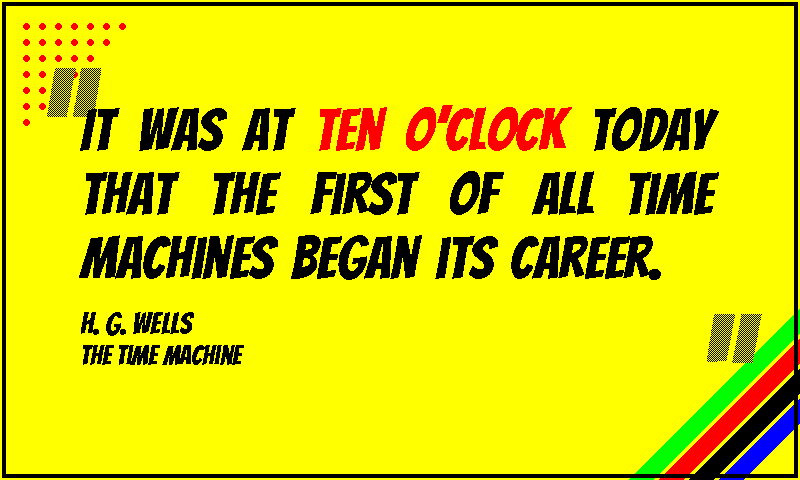
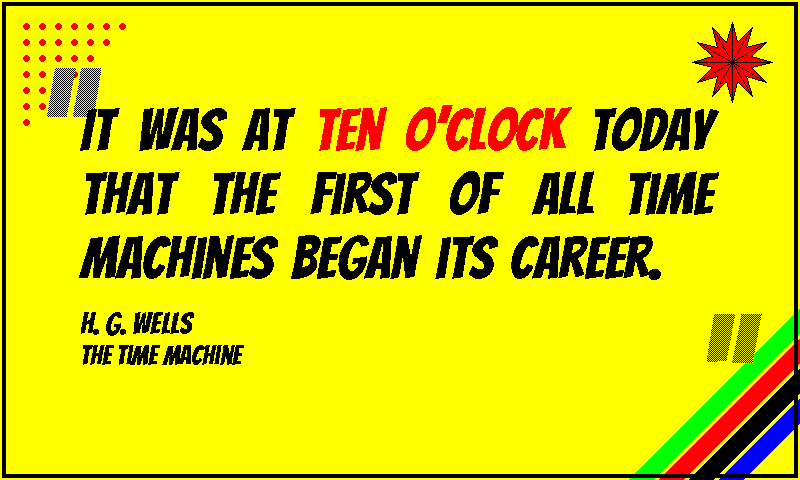
Uplevel comic and chanbara theme visuals
Continue the measured theme-upleveling effort with two themes that had a
genuinely empty corner / margin (verified by sampling margin-band busyness).

comic: add a red action-starburst to draw_comic_corner_stripes in the
previously-empty top-right corner — a 24-point jagged explosion-burst
polygon (red fill, black ink spikes), the canonical "POW!" comic burst.
Centred at (width-68, 62) so it sits in the corner gutter above the body
block (clear of the first text line) and diagonally counterweights the TL
Ben-Day dot field and BR racing stripes, completing the three-corner
comic-page composition. Verified it clears every cross-theme gating sample.

chanbara: add a vertical brush-tick signature column to
draw_chanbara_border in the empty left margin — five short uneven sumi
strokes + a few ink-spatter flecks, painted red then maroon-post-passed to
share the chop seal's aged-ink register (the hanging signature/date column
a samurai-cinema poster runs beside the artist's seal). Pinned to the tall
clear band below the oversized opening quote-mark and above the rising-sun
arc.

Add three border-detail unit tests (including a comic gating-clearance
test), regenerate the affected chanbara golden fixture, and refresh both
README preview thumbnails (10:00 production; default.png reproduces
byte-for-byte). Update CLAUDE.md theme docs. Full suite green before commit
(391 passed, 3 skipped); ruff clean.

Changed region(s): [[0.875, 0.0625, 0.9688, 0.2188]]

diff --git a/idle_hours/render_quote.py b/idle_hours/render_quote.py
@@ -5148,6 +5148,32 @@ def draw_chanbara_border(image: Image.Image, colors: dict) -> None:
         width=2,
     )
 
+    # Vertical brush-tick column in the empty left margin — the hanging
+    # signature / date column a kabuki or samurai-cinema poster runs down
+    # the side of the artist's seal. Five short horizontal sumi strokes of
+    # varied length (a real hand-inked run of marks is uneven), painted in
+    # red as a sentinel and maroon-post-passed to share the chop's aged-ink
+    # tonal register. Pinned to x≈14-40, y≈196-280 — the tall clear band on
+    # the far left below the oversized opening quote-mark (which occupies
+    # y≈20-140) and above the bottom rising-sun arc (which only reaches the
+    # bottom-right quadrant). Well left of the body block, which on the
+    # widest dense layout starts at x≥60.
+    tick_cx = chop_left + chop_w // 2
+    tick_specs = ((196, 11), (212, 9), (228, 12), (244, 8), (260, 10))
+    for ty, half in tick_specs:
+        draw.line([(tick_cx - half, ty), (tick_cx + half, ty)], fill=sentinel_red, width=2)
+    # A couple of small ink-spatter flecks trailing off the lowest ticks,
+    # for the hand-inked sumi-e feel — single filled dots, same sentinel.
+    for fx, fy in ((tick_cx + 15, 266), (tick_cx - 13, 272), (tick_cx + 6, 278)):
+        draw.ellipse((fx - 1, fy - 1, fx + 1, fy + 1), fill=sentinel_red)
+    # Maroon post-pass over the brush-tick column bbox (x±18, y 188-282).
+    col_x0 = max(0, tick_cx - 18)
+    col_x1 = min(width - 1, tick_cx + 18)
+    for py in range(188, 283):
+        for px in range(col_x0, col_x1 + 1):
+            if (px + py) & 1 == 0 and pixels[px, py] == sentinel_red:
+                pixels[px, py] = maroon_dark
+
 
 def _lcars_paint_lavender_block(pixels, left: int, top: int, right: int, bot: int,
                                 sentinel) -> None:
@@ -6948,6 +6974,34 @@ def draw_comic_corner_stripes(image: Image.Image, colors: dict) -> None:
         outline=colors.get("text", SPECTRA6["black"]),
         width=4,
     )
+
+    # Action starburst in the empty top-right corner — the jagged
+    # explosion-burst silhouette every comic page stamps a "POW!" / "ZAP!"
+    # into. Diagonally counterweights the top-left Ben-Day dot field and
+    # the bottom-right racing stripes, completing the three-corner comic-
+    # page composition (the TR was the one empty corner). A 16-point star
+    # polygon (alternating outer / inner radii) filled red with a heavy
+    # black outline — the classic two-colour comic register (red fill,
+    # black ink), pulling only from the comic palette (accent / text).
+    # Centred at (width-70, 70): the burst's leftmost spike reaches
+    # x≈width-115 and its lowest y≈115, so it clears the body block (the
+    # quote never starts before y=72 and the widest dense layout ends at
+    # x≤740) and sits cleanly inside the heavy panel border.
+    burst_color = colors.get("accent", SPECTRA6["red"])
+    burst_ink = colors.get("text", SPECTRA6["black"])
+    burst_cx, burst_cy = width - 68, 62
+    outer_r, inner_r = 40, 20
+    points = 12
+    burst_pts = []
+    for i in range(points * 2):
+        ang = -math.pi / 2 + i * math.pi / points
+        rr = outer_r if i % 2 == 0 else inner_r
+        burst_pts.append((burst_cx + rr * math.cos(ang), burst_cy + rr * math.sin(ang)))
+    border_draw.polygon(burst_pts, fill=burst_color, outline=burst_ink)
+    # Re-stroke the spikes heavier so the outline reads at panel distance.
+    for i in range(0, points * 2, 2):
+        sx, sy = burst_pts[i]
+        border_draw.line((burst_cx, burst_cy, sx, sy), fill=burst_ink, width=1)
 
 
 # Deterministic stone-grain speckle layout for ``draw_roman_border``. Same

diff --git a/tests/test_render_quote.py b/tests/test_render_quote.py
@@ -3742,3 +3742,41 @@ def test_saloon_border_paints_side_drop_pendants():
     right = sum(1 for x in range(779, 796) for y in range(248, 290) if px[x, y] == red)
     assert left > 40, "left drop-pendant chain missing"
     assert right > 40, "right drop-pendant chain missing"
+
+
+def test_comic_border_paints_action_starburst():
+    """The upleveled comic border adds a red action-starburst in the empty
+    top-right corner (red fill + black ink spikes), completing the
+    three-corner composition."""
+    img = Image.new("RGB", (800, 480), rq.SPECTRA6["yellow"])
+    rq.draw_comic_corner_stripes(img, rq.THEMES["comic"])
+    px = img.load()
+    red = rq.SPECTRA6["red"]
+    black = rq.SPECTRA6["black"]
+    burst_red = sum(1 for x in range(700, 775) for y in range(28, 98) if px[x, y] == red)
+    burst_black = sum(1 for x in range(700, 775) for y in range(28, 98) if px[x, y] == black)
+    assert burst_red > 500, "action starburst red fill missing"
+    assert burst_black > 100, "action starburst black ink spikes missing"
+
+
+def test_comic_starburst_clears_cross_theme_gating_samples():
+    """The new top-right starburst must not intrude on the corner-gutter
+    sample points the cross-theme gating tests rely on."""
+    img = Image.new("RGB", (800, 480), rq.SPECTRA6["yellow"])
+    rq.draw_comic_corner_stripes(img, rq.THEMES["comic"])
+    px = img.load()
+    yellow = rq.SPECTRA6["yellow"]
+    for pt in ((15, 15), (12, 12), (400, 11), (20, 20)):
+        assert px[pt] == yellow, f"comic starburst intrudes on gating sample {pt}"
+
+
+def test_chanbara_border_paints_brush_tick_column():
+    """The upleveled chanbara border adds a vertical brush-tick signature
+    column in the empty left margin (maroon = red+black, so red survives on
+    the odd-parity half of the post-pass)."""
+    img = Image.new("RGB", (800, 480), (0, 0, 0))
+    rq.draw_chanbara_border(img, rq.THEMES["chanbara"])
+    px = img.load()
+    red = rq.SPECTRA6["red"]
+    col_red = sum(1 for x in range(20, 57) for y in range(188, 283) if px[x, y] == red)
+    assert col_red > 40, "brush-tick signature column missing"

diff --git a/CLAUDE.md b/CLAUDE.md
@@ -531,7 +531,7 @@ Imports `pick_quote` in-process (`pick_quote_module.select_quote`) and lays out 
   - `gothic` (black-ground/white-body/red-accent, the same UnifrakturMaguntia blackletter promoted from ornament-only to *both* the matched-phrase bold and the oversized quote marks — short matched phrases like "half past two" render in dramatic red blackletter, sitting in the body like a chapter heading. The matched-phrase red is stippled with the same sparse 1-in-4 white-on-red dither (`light_density=0.25`) that `grimoire` uses on *its* blackletter matched phrase via `_draw_text_body`, so both sister blackletter themes share a candlelit-rubric signature against their respective grounds — the recipe is the documented "candlelit red" two-ink mix. Pairs with a `draw_gothic_border` decorative frame: double rule (red outer + white inner — distinct from `illuminated`'s single-ink doubled rule) with red-and-white quatrefoils — four small red lobes around a tiny white centre dot — at the four outer corners (the iconic four-lobed Gothic-tracery motif found in cathedral rose windows and printed-book ornaments), plus small cream (Y+W) diamond ornaments centred on each mid-edge as chapter-divider accents, and red **trefoil finials** (a three-lobed Gothic-tracery clover, each lobe a red disc with a white centre dot) centred in the top and bottom margins — painted in solid rubric red rather than the corners' maroon recipe so they read on the open black field, tying the head/foot of the page back to the corner quatrefoils. Both finials are centred horizontally so the top one clears the right-aligned `DEBUG MODE` banner and the foot one clears the bottom-left attribution. Visually the opposite polarity of `illuminated` so the two blackletter themes complement rather than duplicate).
   - `bauhaus` (white/black/blue-accent + red-ornaments, Jost geometric sans — three primaries simultaneously, plus a `draw_bauhaus_border` decorative frame: thin black outer rectangle with red-circle (TL) / blue-square (TR) / yellow-triangle (BL) / red-circle (BR) corner accents — the BL triangle paints in yellow rather than the second blue it was pre-Stage-3 so all three Bauhaus primaries (red + blue + yellow) appear simultaneously on the page alongside the black outer frame. The frame is layered up into a fuller poster composition: concentric outline rings (in the frame colour) sweep around the two corner discs as the quarter-arc "target" geometry of a Kandinsky concentric-circle study; two off-centre primary semicircles bulge inward from the top (blue) and bottom (yellow) frames as the playful edge punctuation of a Bauhaus poster — deliberately set at x=0.68w / 0.32w (never the frame midpoints) so the composition stays asymmetric and the sampled top/bottom frame-midpoint pixels keep their frame colour; and two floating primary elements (a small red square on the left margin, a small blue disc on the right) drift in the otherwise-empty side margins at y=0.34h / 0.66h, echoing the corner shapes' forms while staying off the side-frame midpoints. The matched-phrase blue accent is rerouted in `_draw_text_body` to a 50/50 B+K navy stipple, giving the matched phrase tighter contrast against the new yellow triangle than the body-vs-accent palette would otherwise produce. The themes with borders — atomic / bauhaus / blueprint / comic / dispatch / gothic / illuminated / newsprint / nightvision — are dispatched via `_paint_theme_border` / `_BORDER_PAINTERS` at the top of both `render` and `render_source_card`; four of them paint in the top-right corner (bauhaus / blueprint / gothic / illuminated), so the debug-mode "DEBUG MODE" banner shifts inward for those via the `_DEBUG_LABEL_RIGHT_INSET` dict — extend that dict when adding another theme-specific TR graphic. Dispatch's TR rubber-stamp graphic sits below the label band, and atomic's atom symbol is centred horizontally, so both deliberately stay absent from that dict).
   - `risograph` (white/red/blue, Rubik rounded sans — ZERO black ink, two-colour riso print. The matched-phrase blue accent is rerouted in `_draw_text_body` to a 50/50 R+B violet stipple — the authentic riso double-pass overprint where the red and blue plates physically wash into purple; preserves the no-black-ink invariant by construction. The `draw_risograph_border` decoration's shifted-accent registration crosses at the four corners paint in an off-palette sentinel and then bbox-post-pass through a 3-way 4×4 Bayer partition into LAVENDER (R+B+W ~1/3 each) — the paler "overprint" register-mark tone real risograph print test sheets develop where two plates wash together. Plus a **colour-registration bar** centred in the top margin — five solid swatches (red / blue / lavender-overprint / red / blue) of the kind a print shop runs at the sheet edge to check ink density and plate alignment, the lavender swatch using the same R+B+W 3-way recipe as the corner crosses; every swatch is red / blue / white only, preserving the no-black-ink invariant by construction).
-  - `comic` (yellow-ground/black-body/red-accent, Bangers comic-book display, plus a `draw_comic_corner_stripes` decoration that lays a full comic-page composition over the empty yellow ground: (1) a **Ben-Day halftone dot field** — an evenly-gridded triangle of small red dots filling the top-left corner (the iconic Lichtenstein / four-colour-print texture), inset ≥26 px from both edges so the panel-gutter corner — and the `(15, 15)` / `(12, 12)` / `(20, 20)` / `(36, 56)` pixels the cross-theme gating tests sample — stays clean yellow page_bg, diagonally counterweighting the bottom-right stripes; (2) the original **45° racing stripes** cycling through blue / green / red / black, masked to a right-triangle pinned to the bottom-right corner of the canvas — hypotenuse spans the lower-right quadrant from `(width/2, height)` up to `(width, height/2)`, so bands fan out from the corner without obscuring the quote body; and (3) a **heavy black panel border** at inset 2 / width 4 hugging the canvas edge — the bold gutter line every comic panel is framed by — painted last so it sits over both the dots and the stripes, with the stroke kept at x/y 2–5 so it clears all the frame-edge gating sample points (the lowest is the blueprint-crosshair probe at `(6, 16)`). The stripe palette is hardcoded at module scope (`_COMIC_STRIPE_PALETTE`) since the cool blue/green half of the chevron isn't reachable from the comic theme dict's two non-bg accents — an exception to the "borders pull from `colors`" pattern that would otherwise force a THEMES-schema extension and re-pin every cross-theme invariant test; the Ben-Day dots and panel border DO pull from `colors` (accent / text), defaulting to the comic red/black via `.get()` so the direct `draw_comic_corner_stripes(img, {"page_bg": ...})` unit-test calls — which pass only the page_bg — still render the full panel).
+  - `comic` (yellow-ground/black-body/red-accent, Bangers comic-book display, plus a `draw_comic_corner_stripes` decoration that lays a full comic-page composition over the empty yellow ground: (1) a **Ben-Day halftone dot field** — an evenly-gridded triangle of small red dots filling the top-left corner (the iconic Lichtenstein / four-colour-print texture), inset ≥26 px from both edges so the panel-gutter corner — and the `(15, 15)` / `(12, 12)` / `(20, 20)` / `(36, 56)` pixels the cross-theme gating tests sample — stays clean yellow page_bg, diagonally counterweighting the bottom-right stripes; (2) the original **45° racing stripes** cycling through blue / green / red / black, masked to a right-triangle pinned to the bottom-right corner of the canvas — hypotenuse spans the lower-right quadrant from `(width/2, height)` up to `(width, height/2)`, so bands fan out from the corner without obscuring the quote body; and (3) a **heavy black panel border** at inset 2 / width 4 hugging the canvas edge — the bold gutter line every comic panel is framed by — painted last so it sits over both the dots and the stripes, with the stroke kept at x/y 2–5 so it clears all the frame-edge gating sample points (the lowest is the blueprint-crosshair probe at `(6, 16)`); and (4) a **red action-starburst** (a 24-point jagged explosion-burst polygon filled red with black ink spikes, the canonical "POW!" comic burst) in the previously-empty top-right corner, centred at `(width-68, 62)` so it sits in the corner gutter above the body block (clear of the first text line at y≈110) and diagonally counterweights the TL dot field and BR stripes — completing the three-corner comic-page composition. The stripe palette is hardcoded at module scope (`_COMIC_STRIPE_PALETTE`) since the cool blue/green half of the chevron isn't reachable from the comic theme dict's two non-bg accents — an exception to the "borders pull from `colors`" pattern that would otherwise force a THEMES-schema extension and re-pin every cross-theme invariant test; the Ben-Day dots and panel border DO pull from `colors` (accent / text), defaulting to the comic red/black via `.get()` so the direct `draw_comic_corner_stripes(img, {"page_bg": ...})` unit-test calls — which pass only the page_bg — still render the full panel).
   - `dispatch` (white/black/red, Special Elite slab-mono typewriter face — vintage office / field-report / dossier register, plus a `draw_dispatch_border` decoration: a sparse 1-in-8 yellow-on-white Bayer cream wash painted as Layer 0 across the page ground (per `BAYER_4x4[y%4][x%4] < 2` — same Bayer threshold `newsprint`'s halftone uses but flipped for `page_bg→yellow` so the page reads as a faint cream/vellum tone, the documented Y+W cream recipe), thin black outer frame, two columns of small tractor-feed perforation circles down the side margins (echoing continuous-feed dot-matrix sprocket holes — every other pair flips from solid black to a sepia stipple via the documented R+G sentinel-paint-then-bbox-post-pass pattern, reading as the rust-brown "carbon-paper bleed" real continuous-feed forms accumulate where the carbon backing oxidises through the sprocket holes), and a maroon rubber-stamp imprint in the upper right inside the frame — two concentric ellipse outlines plus four short diagonal hatch lines, painted in red as a sentinel and then bbox-post-passed to flip half to black per `(x+y)&1` parity (the documented R+K maroon recipe), so the stamp reads as the aged-ink oxblood of a real archival stamp rather than fire-engine red. Plus two **binder filing-punch holes** (thin black ring outlines centred in the top margin at y≈40) and a typed **"— FILE COPY —" footer** (the theme's own Special Elite typewriter face, centred in the bottom margin) — the carbon-duplicate furniture of a real dossier page, both in black ink so the dossier identity stays monochrome-plus-stamp. Same palette as `default` but the slab-mono typewriter face plus the dossier graphics give it a completely different silhouette. The stamp sits at y≈40–70, the punch-holes and footer are centred horizontally (clear of the side perforation columns and the bottom-left attribution), all well below / centred relative to the `DEBUG MODE` banner band, so dispatch is intentionally absent from `_DEBUG_LABEL_RIGHT_INSET`).
   - `atomic` (green-ground/black-body/red-accent — the only theme to claim Spectra 6's flat green as a *page background* — paired with the chunky 1950s Atomic Age display face. Plus a `draw_atomic_border` decoration: a rounded-corner red outer frame (Googie streamlined-modern curves), a centred atom symbol at the top of the page (three rotated red ellipse "orbits" at 0° / 60° / 120° plus a small filled red nucleus — PIL's `ellipse` doesn't accept rotation, so each orbit is drawn as a 64-point polygon-line approximation rotated through the standard 2×2 cosine/sine matrix), and twin tangerine starbursts at the mid-edges (eight rays radiating from a small filled dot — the iconic atomic-energy spark of mid-century diner / motel signage. Each ray is painted in red as a sentinel ink, then a per-starburst bbox post-pass Bayer-flips ~3/8 of the red pixels to yellow at threshold 6/16 — the documented R+Y 5/8:3/8 tangerine recipe `deco` already uses for its matched phrase — so the rays read as the warm atomic-spark glow of period-correct mid-century advertising rather than the harsh fire-engine red the atom orbits use. The atom symbol itself stays solid red so rays-vs-orbits reads as a visual contrast — solid orbits, warm-stippled rays). Plus an atomic **boomerang** centred in the bottom margin — the iconic Googie / Formica kidney-boomerang the era stamped on diner tables and motel signs, a chevron-shaped filled polygon with a small orbiting-electron dot off one tip, painted in red then bbox-post-passed through the same R+Y 5/8:3/8 tangerine recipe as the starburst rays (so it reads as warm atomic-spark orange, not the orbits' fire-engine red). Reads as a vintage atomic-age advertisement at a glance. The atom is centred horizontally so it doesn't conflict with the right-aligned `DEBUG MODE` banner, and the boomerang sits at the bottom centre clear of the bottom-left attribution; atomic is intentionally absent from `_DEBUG_LABEL_RIGHT_INSET`).
   - `marker` (white/black/blue-accent, Permanent Marker hand-drawn — "use the full capabilities of the display" brief: a `draw_marker_border` fridge-doodle frame that lights up every non-white spot colour the Spectra 6 panel can render. Thick 3 px marker-dash perimeter cycling through the five-colour palette so each edge picks up roughly one full rotation of the cycle; corner asterisks coloured red TL / blue TR / green BL / yellow BR for a "marker pot" register rather than a single-Sharpie doodle; left mid-edge mint highlighter dot (G+W 1:1 bbox post-pass via the documented two-ink recipe `nightvision`'s body uses) and right mid-edge violet overlap dot (R+B 1:1, the `illuminated` matched-phrase recipe) balancing the otherwise-stranded yellow + green pixels from the perimeter cycle; plus two doodle **"twinkle" sparkles** (a tapered four-point star with a tiny companion mark, the little stars a kid scatters around a fridge drawing) in the top-centre (red) and bottom-centre (blue) margins, pulling two more palette inks into the otherwise-empty head/foot space. The TR corner asterisk overlaps the y=14-29 banner band, so `marker` carries an entry in `_DEBUG_LABEL_RIGHT_INSET`; the top twinkle sits at x=width//2-70, left of the banner, so it needs no further inset adjustment).
@@ -543,7 +543,7 @@ Imports `pick_quote` in-process (`pick_quote_module.select_quote`) and lays out 
   - `glacier` (white/blue/green, Iceland geometric techno display face — Cyreal, OFL, the first theme to pair a blue body with a green accent. The matched-phrase green accent is rerouted in `_draw_text_body` to a 5/8:3/8 G+B teal stipple — green-biased via Bayer threshold 6/16, the same luminance-bias pattern `nightvision`'s lime and `deco`'s tangerine use to lift a matched phrase off a same-axis body colour. An earlier revision shipped this seam at 50/50 G+B cyan; against the solid-blue body the cyan averaged too close to blue at panel viewing distance and read as a near-sibling tone, so the recipe was biased toward green to widen the hue stride. Solid Spectra-6 green was tried and rejected before cyan because it read as a muddy mid-tone; the 3/8 blue stipple keeps the recipe out of that failure mode while still pulling cleanly off the body blue. Cool-palette gradient now reads as blue body → teal matched phrase → sky-blue ornament highlights on the frost-crystal border. Plus a `draw_glacier_border` decorative frame: thin blue outer rule at inset 14; a **frost-edge wash** — a sparse sky-blue frost gathering in the ≤44 px clear margins above and below the type area, painted as a gradient Bayer threshold (peak ~5/16 at the frame edge fading linearly to bare at the inner lip) that only flips *white* ground pixels to blue, so the ground reads as ice creeping across a windowpane rather than a flat sheet while the blue body text (which never starts before y=72) stays fully legible (skipped on non-white grounds so the unit-test sentinel render is unaffected); four richer corner frost-crystal sprays — each fans a blue horizontal + vertical splinter, two intermediate blue splinters filling the 45° fan, and the longest green-tipped diagonal splinter with two tiny dendrite barbs feathering off it the way real hoar-frost grows side-arms, anchored by a small blue hub dot — the diagonal splinter's (and its barbs') green pixels are post-pass-flipped to white on a 50/50 `(x+y)&1` checkerboard inside each cluster's bbox (the documented sky-blue two-ink recipe), so the eye averages green+white at panel distance into a sunlight-on-ice highlight against the deep-ice body-blue shards; and four mid-edge **six-armed snowflake ticks** — three crossing spokes at 0°/60°/120° with a small forked barb at each of the six tips plus a filled blue hub diamond — reinforcing the architectural symmetry without crowding the quote. The TR cluster overlaps the default debug-banner band, so `glacier` carries an entry of 34 in `_DEBUG_LABEL_RIGHT_INSET` mirroring `blueprint`'s rationale).
   - `chalkboard` (black-ground/white-body/yellow-accent, Playwrite GB J Guides — TypeTogether, OFL — the UK primary-school joined cursive handwriting model *with* the dotted-outline guide letters schoolchildren trace over. Single-weight (Regular only); the dotted/hollow letterforms themselves are the point, so the matched-phrase role reuses Regular and gains differentiation from the yellow chalk-stick accent. Falls back through DejaVu Sans Italic / Liberation Sans Italic before degrading to the Playfair chain so a missing install lands on at least a slanted silhouette rather than dropping a cursive theme onto an upright serif. Plus a `draw_chalkboard_border` decoration: doubled white wooden frame (outer 3 px rule at inset 8 + inner 1 px rule at inset 18, with the ~7 px gap between them left unfilled so the black ground reads through as dark wood grain), a deterministic chalk-dust stipple of single-pixel white dots tucked into the bottom-left corner — pinned to the BL because that's where the chalk tray actually sits on a classroom board — a small green-chalk teacher's `✓` check-mark at the upper-right inner margin (drawn in solid Spectra 6 green at y≈50 as two short line segments forming the canonical "marked correct" annotation; sits below the y=14-29 `DEBUG MODE` banner band by construction), and five small coral eraser-smudge dots spaced along the bottom inner edge (each painted as a 3 px filled red circle then post-passed with white at 50/50 `(x+y)&1` parity inside its bbox so the eye averages red+white at panel distance into coral pink — the documented R+W 1:1 two-ink recipe — reading as the faint pink eraser-stub residue that builds up at the bottom of a real classroom chalkboard), a top-left **handwriting practice-guide rule** (solid top line + dashed midline + solid baseline in white chalk — the ruling schoolchildren write between, the defining gesture of the Playwrite GB J Guides face this theme uses), and a yellow-chalk **gold-star "well done" sticker** beside the green teacher's check so the graded gesture reads as tick-plus-star. The TR check-mark + star stay inside x ≤ width-22 and y ≥ 38, and the practice-guide rule is left-anchored in the top margin, so `chalkboard` is intentionally absent from `_DEBUG_LABEL_RIGHT_INSET` — same exemption as `dispatch` / `atomic`).
   - `placard` (white/black/red, Patrick Hand SC — Patrick Wagesreiter, OFL — friendly hand-printed face whose small caps for lowercase do almost all the visual work, giving the text the silhouette of hand-lettered shop signage / sandwich-board menus. Single-weight (Regular only); the matched-phrase role reuses Regular and gains differentiation from the red accent alone, same trick comic / dispatch / atomic / marker / saloon / deco / glacier / chalkboard already use. Falls back through DejaVu / Liberation / Noto Sans Bold before degrading to the Playfair chain so a missing install lands on a chunky display silhouette. Plus a `draw_placard_border` decoration: doubled sign-painter's frame at insets 14 and 18 — the outer rule painted as a 1 px red stroke and then perimeter-post-passed to flip half of its pixels to green on the 50/50 `(x+y)&1` checkerboard so the eye averages red+green at panel distance into rust-brown sepia (the documented R+G 1:1 two-ink recipe, same recipe `saloon`'s foxing uses), reading as the weathered sandwich-board wood of a sun-faded A-frame menu rather than the harsh printer-ink black of a freshly typeset poster; the inner rule stays solid black so the colour shift between the two parallel rules reads as "core inked, weathered at edges." Four red filled "thumbtack" circles (radius 4) at the inner corners suggest pins holding the sign up — each tack's red pixels are post-pass-flipped to white on a 50/50 `(x+y)&1` checkerboard inside its own bbox (the documented coral-pink two-ink recipe), so the eye averages red+white at panel distance into weathered hand-painted sign-painter red rather than fire-engine vermilion (the exposed corners of a sandwich-board sign would be the first thing to fade in the rain). The four tacks sit at y ≈ 38 / y ≈ height-38, well below the default debug-banner band (y=14-29), so `placard` is intentionally absent from `_DEBUG_LABEL_RIGHT_INSET` — same exemption as `dispatch`. Plus **sign-painter header + footer dividers**: a short centred black rule carrying a small coral diamond (the same R+W weathered-coral recipe the tacks use), the hand-lettered ornament that tops and tails an A-frame menu board — header at y≈34 (clear of the text block at y≥72), footer centred (clear of the bottom-left attribution column)).
-  - `chanbara` (black-ground/white-body/red-accent, Shojumaru — Astigmatic / Brian J. Bonislawsky, OFL — a dramatic brush-painted display face by the same designer as Righteous and Atomic Age, evoking samurai cinema posters and Japanese woodblock prints. Single-weight (Regular only); the matched-phrase role reuses Regular and gains differentiation from the red sun-disc accent alone, same bichrome trick the other display-face themes use. Falls back through heavy DejaVu / Liberation / Noto Sans Bold before degrading to the Playfair chain so a missing install lands on a heavy display silhouette. Plus a `draw_chanbara_border` decoration: a large red filled "rising-sun" disc anchored off-canvas in the bottom-right corner (centre at width+30 / height+30, radius 220 — only the upper-left arc visible, sweeping dramatically through the lower-right quadrant of the page; the white quote text rendered on top reads cleanly thanks to the high white-on-red contrast and the palette-snap pass), balanced diagonally by a small red artist's-chop seal in the top-left corner (a 28×36 px filled red rectangle with one thin white horizontal "ichi" stroke through its centre, vaguely suggesting a Japanese hanko ink seal without committing to specific kanji). The dominant graphic sits in the BL/BR quadrants by design so the top-right stays clear of the debug banner — `chanbara` is intentionally absent from `_DEBUG_LABEL_RIGHT_INSET`, same exemption as `dispatch` / `atomic` / `placard` / `chalkboard`).
+  - `chanbara` (black-ground/white-body/red-accent, Shojumaru — Astigmatic / Brian J. Bonislawsky, OFL — a dramatic brush-painted display face by the same designer as Righteous and Atomic Age, evoking samurai cinema posters and Japanese woodblock prints. Single-weight (Regular only); the matched-phrase role reuses Regular and gains differentiation from the red sun-disc accent alone, same bichrome trick the other display-face themes use. Falls back through heavy DejaVu / Liberation / Noto Sans Bold before degrading to the Playfair chain so a missing install lands on a heavy display silhouette. Plus a `draw_chanbara_border` decoration: a large red filled "rising-sun" disc anchored off-canvas in the bottom-right corner (centre at width+30 / height+30, radius 220 — only the upper-left arc visible, sweeping dramatically through the lower-right quadrant of the page; the white quote text rendered on top reads cleanly thanks to the high white-on-red contrast and the palette-snap pass), balanced diagonally by a small red artist's-chop seal in the top-left corner (a 28×36 px filled red rectangle with one thin white horizontal "ichi" stroke through its centre, vaguely suggesting a Japanese hanko ink seal without committing to specific kanji), and a vertical **brush-tick signature column** in the empty left margin (five short uneven sumi strokes + a few ink-spatter flecks, painted red then maroon-post-passed to share the chop's aged-ink register — the hanging signature / date column a samurai-cinema poster runs down beside the artist's seal; pinned to x≈14-40, y≈196-280, the tall clear band below the oversized opening quote-mark and above the bottom rising-sun arc). The dominant graphic sits in the BL/BR quadrants by design so the top-right stays clear of the debug banner — `chanbara` is intentionally absent from `_DEBUG_LABEL_RIGHT_INSET`, same exemption as `dispatch` / `atomic` / `placard` / `chalkboard`).
   - `lcars` (black-ground / white-body / yellow-accent, Antonio condensed sans — Vernon Adams, OFL — the de-facto free LCARS substitute used by Star Trek fan projects: a tall narrow condensed sans whose silhouette echoes Helvetica Compressed / Swiss 911, the original LCARS typeface family. Variable font with Regular / Bold variation instances pinned explicitly. The yellow-on-black matched-phrase accent is the iconic LCARS button colour and renders solid (no `_draw_text_body` reroute needed). Plus a `draw_lcars_border` Michael Okuda LCARS interface frame: thin tangerine top + bottom horizontal bars wrapping in from the left via quarter-circle elbows (painted in red as a sentinel ink then bbox-post-passed to flip ~3/8 of the red pixels to yellow per Bayer threshold 6/16 — the documented R+Y 5/8:3/8 tangerine recipe shared with `deco` / `atomic`), six stacked rail blocks flush with the canvas left edge in the canonical Okudagram lavender → tangerine → coral → yellow → red → lavender palette (lavender via the 3-ink R+B+W per-block Bayer partition, the recipe `risograph`'s shifted-accent registration crosses use; coral via the 2-ink R+W 50/50 checkerboard, same recipe `placard`'s thumbtacks and `chalkboard`'s eraser smudges use), deterministic 4–7-character black alphanumeric block labels (the meaningless instrument codes the show used as button labels), and a right-aligned "LCARS" wordmark anchored in the top bar in Antonio Bold. Both bars sit below / above the y=14-29 `DEBUG MODE` banner band by construction, so `lcars` is intentionally absent from `_DEBUG_LABEL_RIGHT_INSET`, same exemption as `dispatch` / `atomic` / `chalkboard` / `chanbara`).
   - `herbarium` (white/cream/black/forest-green, IM Fell English italic — 19th-century pressed-plant specimen sheet; the matched-phrase green accent is rerouted in `_draw_text_body` to a 50/50 G+K stipple — forest green, the documented dark-green recipe from `spectra6_color_recipes.md`'s "not in use / forward reference" section that herbarium now claims, reading as the dark-pressed plant material a real archival specimen develops. The first theme whose defining colour story is the green axis — every other green-touching theme (`nightvision` / `glacier` / `roman`) uses green as a secondary accent against a different body colour. Plus a `draw_herbarium_border` decoration: cream Layer-0 wash (Y@12.5% Bayer, same recipe `illuminated` / `dispatch` use), thin black engraver's hairline rule at inset 14, four small "pinhole" dots at the inner corners (where the specimen would be pinned to the mounting sheet), a stylised pressed-leaf silhouette in the bottom-right corner — painted in yellow as a sentinel ink and bbox-post-passed to flip half to green per `(x+y)&1` parity → olive (Y+G 1:1, the documented recipe `roman`'s laurel sprigs already use) — with darker olive midrib and side veins, and a "Tempus fugit" specimen cartouche in the bottom-left diagonally counterweighting the leaf (carrying a single writing rule so the box reads as a real specimen label), a **second smaller pressed-fern specimen** mounted in the top-left margin (olive stem + tapering leaflets via the same Y+G sentinel-then-post-pass recipe) diagonally counterweighting the BR leaf, and two off-white **gummed mounting-tape strips** pinning the main leaf's midrib to the sheet (the linen hinges that hold a real specimen flat). The TR pinhole at (width-18, 17) sits inside the y=14-29 banner band horizontally adjacent to the default label edge, so `herbarium` carries an entry of 24 in `_DEBUG_LABEL_RIGHT_INSET` for a 4 px breathing gap).
   - `mucha` (cream-washed white / maroon body / cyan matched phrase, Cormorant Garamond + Berkshire Swash ornament — Art Nouveau / Belle-Époque poster, the first theme to use a synthesised colour as its primary body fill rather than just an accent: the `text` THEMES slot holds the red sentinel ink that `_draw_text_body` routes through a 50/50 R+K stipple → maroon (R+K 1:1, the same documented recipe `dispatch` / `gothic` / `chanbara` / `grimoire` / `blueprint` / `scholar` use for their matched phrases, here promoted to the body), reading as the deep wine / oxblood the period's poster lettering actually used. The matched phrase shifts to cyan (G+B 1:1, the `glacier` recipe) for cool-vs-warm contrast against the maroon body. Plus a `draw_mucha_border` decoration — the rotation's first all-curve / organic border: cream Layer-0 wash (same Y+W recipe as `illuminated` / `dispatch` / `herbarium`), thin teal rule at inset 18 painted in green as a sentinel ink and perimeter-post-passed to flip half to blue per `(x+y)&1` parity → cyan (tying the rule to the matched-phrase colour story), and S-shaped organic vine ornaments at the top-left and bottom-right corners — each vine is a 7-point polyline-approximated Bézier S-curve (PIL doesn't ship curves; the same n-point polygon trick `atomic`'s atom orbits use) with three trefoil leaf clusters painted in yellow as an olive sentinel (Y+G, same as the `herbarium` leaf) and a small berry at each stem tip painted in red and bbox-post-passed through `BAYER_4x4 < 6/16` → tangerine (R+Y 5/8:3/8, the documented recipe `deco` and `atomic` use). The top-right and bottom-left corners are deliberately *unornamented* — Mucha posters compose asymmetrically around an off-centre figure, and reproducing that asymmetry is the visual signature; mucha is intentionally absent from `_DEBUG_LABEL_RIGHT_INSET` for the same reason).
